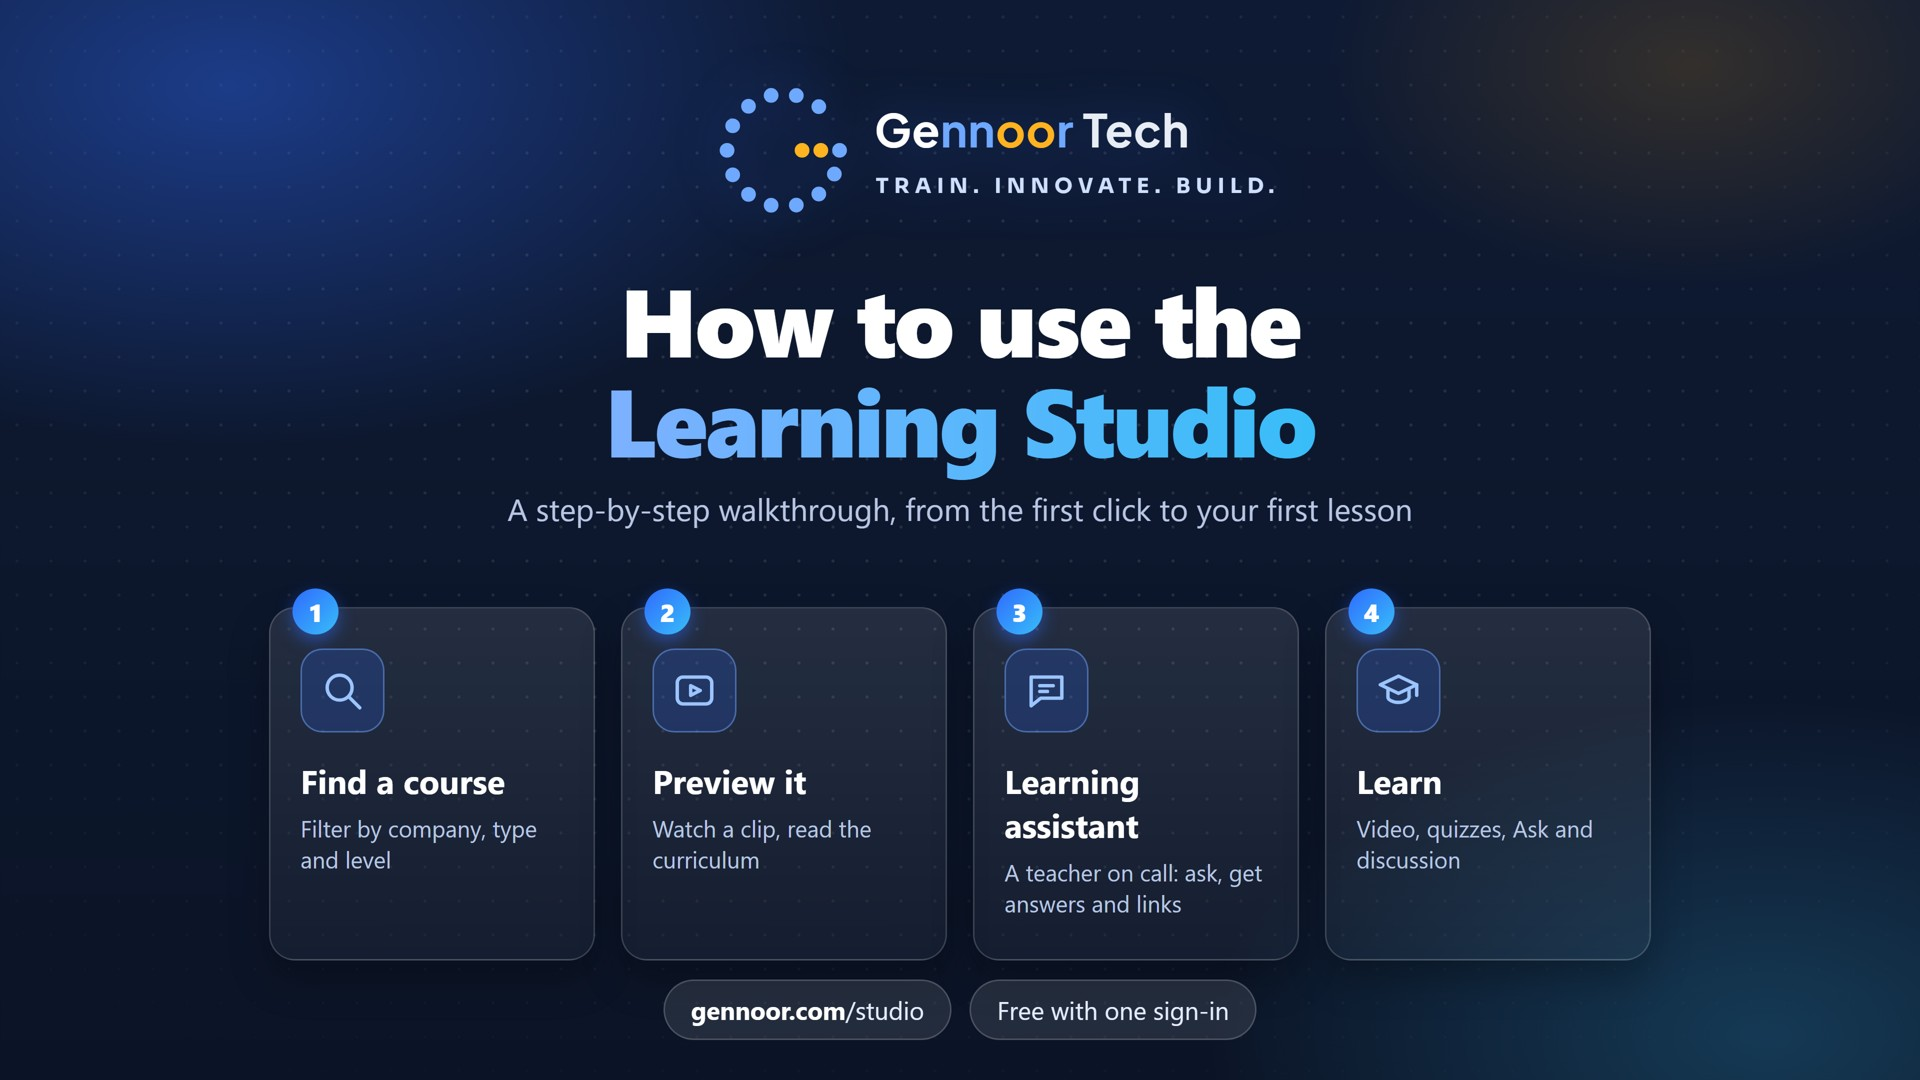
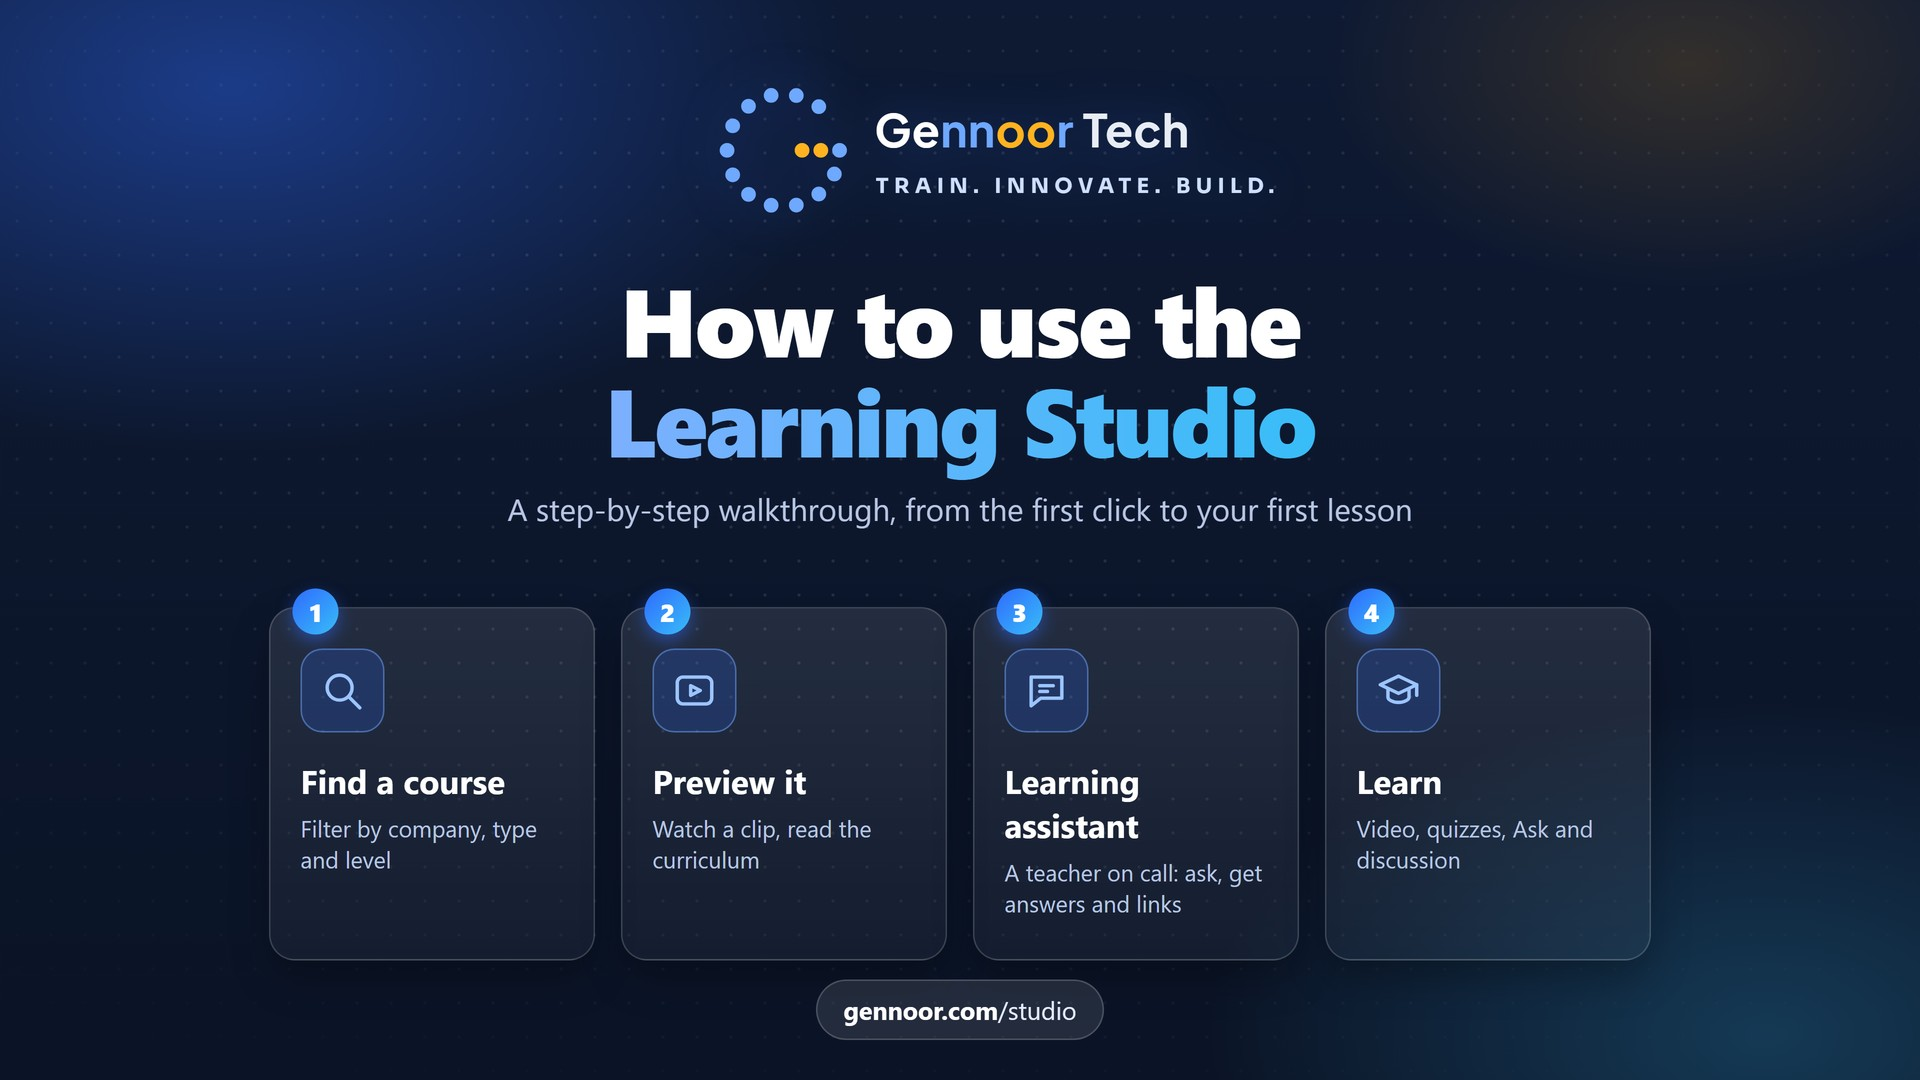
Lead with the vision: certification, projects and interactive learning
Home hero, About page, site title and the assistant's description now start from the
vision. Live training sits apart, the client side is left out for now, and the
walkthrough poster no longer carries the sign-in chip.

Claude-Session: https://claude.ai/code/session_01VrsNDqHTqvgWQAVvNsoGGp

Changed region(s): [[0.3438, 0.8861, 0.6562, 0.9778]]

diff --git a/src/app/page.tsx b/src/app/page.tsx
@@ -5,40 +5,27 @@ import HomeCourses from '@/components/home/HomeCourses'
 import WalkthroughVideo from '@/components/WalkthroughVideo'
 import HeroCarousel, { type HeroSlide } from '@/components/home/HeroCarousel'
 import { listLmsCourses, toCard } from '@/lib/lms'
-import { AutomationIllustration, DeliverIllustration, HandoverIllustration, PlatformIllustration, ScopeIllustration, TalkIllustration, TrainingIllustration } from '@/components/illustrations/Illustrations'
+import { CloudAiIllustration, ExamplesIllustration, PlatformIllustration, TrainingIllustration } from '@/components/illustrations/Illustrations'
 
 // Preview links are signed for 2 hours; rebuild the page well inside that.
 export const revalidate = 1800
 
-const WHAT_WE_DO = [
-  {
-    art: TrainingIllustration,
-    title: 'Training for organizations',
-    body: 'Custom courses built around the work your people do. Claude, Microsoft AI and other tools, taught live.',
-    href: '/training',
-    cta: 'About training',
-  },
-  {
-    art: AutomationIllustration,
-    title: 'Automation we build',
-    body: 'One process at a time, scoped in writing first, built with the people who will use it.',
-    href: '/automation',
-    cta: 'About automation',
-  },
+const PILLARS = [
   {
     art: PlatformIllustration,
-    title: 'Learning platforms',
-    body: 'The Learning Studio is one: video courses, quizzes and certificates.',
-    href: '/studio',
-    cta: 'Open the Learning Studio',
+    title: 'Certification',
+    body: 'Courses that prepare you for recognised exams in cloud and AI, with labs and quizzes along the way.',
   },
-]
-
-const STEPS = [
-  { art: TalkIllustration, title: 'We talk', body: 'You tell us what you want your team to be able to do, or which process costs you time.' },
-  { art: ScopeIllustration, title: 'We write it down', body: 'A short scope: what we will do, what we will not, and what we need from you.' },
-  { art: DeliverIllustration, title: 'We deliver', body: 'Training sessions or a working automation, built with your people.' },
-  { art: HandoverIllustration, title: 'We hand over', body: 'Your team can run it without us. We stay reachable if something needs a second look.' },
+  {
+    art: CloudAiIllustration,
+    title: 'Projects',
+    body: 'Project-based courses built on the problems teams face in production, solved step by step.',
+  },
+  {
+    art: ExamplesIllustration,
+    title: 'Interactive learning',
+    body: 'Self-paced interactive courses for every role and domain, with a short quiz at the end of each chapter.',
+  },
 ]
 
 export default async function HomePage() {
@@ -65,10 +52,10 @@ export default async function HomePage() {
           <div className="text-center lg:text-left">
             <div className="lg:[&>div]:items-start"><ClaudePartnerHero /></div>
             <h1 className="display-hero mt-10 lg:!text-left">
-              Train your team on AI. Automate the rest.
+              Learn what the job actually asks for.
             </h1>
             <p className="text-[clamp(18px,1.8vw,22px)] leading-[1.5] text-[#6e6e73] max-w-[620px] mx-auto lg:mx-0 mt-6">
-              Custom training on Claude and other AI tools, automations built one process at a time, and courses you can take yourself in the Learning Studio.
+              Certification courses, project-based courses and interactive courses, all in the Learning Studio.
             </p>
             <div className="flex flex-col sm:flex-row gap-5 sm:gap-[22px] justify-center lg:justify-start items-center mt-10">
               <Link href="/studio" className="pill-primary">Explore the Learning Studio</Link>
@@ -107,52 +94,49 @@ export default async function HomePage() {
         </section>
       )}
 
-      {/* ===== What we do ===== */}
+      {/* ===== Vision ===== */}
       <section className="bg-white px-6 py-16 lg:py-[90px]">
         <div className="max-w-[1080px] mx-auto">
-          <h2 className="display-section text-center mb-12">What we do.</h2>
-          <div className="grid md:grid-cols-3 gap-6">
-            {WHAT_WE_DO.map(w => (
-              <div key={w.title} className="rounded-[18px] border border-[#e8e8ed] p-7 flex flex-col">
-                <w.art className="w-[84px] h-[84px] mb-5" />
-                <h3 className="font-heading text-[19px] font-bold tracking-[-0.01em] text-gray-900">{w.title}</h3>
-                <p className="text-[15px] leading-[1.55] text-[#6e6e73] mt-3 flex-1">{w.body}</p>
-                <Link href={w.href} className="link-arrow !text-[15px] mt-6">{w.cta} ›</Link>
+          <div className="max-w-[820px] mx-auto text-center">
+            <p className="text-[12px] font-semibold uppercase tracking-[0.14em] text-primary-600">Our vision</p>
+            <h2 className="display-section mt-4">A world where anyone can learn the skills that work asks for, and prove them.</h2>
+          </div>
+          <div className="grid md:grid-cols-3 gap-6 mt-12">
+            {PILLARS.map(p => (
+              <div key={p.title} className="rounded-[18px] border border-[#e8e8ed] p-7">
+                <p.art className="w-[84px] h-[84px] mb-5" />
+                <h3 className="font-heading text-[19px] font-bold tracking-[-0.01em] text-gray-900">{p.title}</h3>
+                <p className="text-[15px] leading-[1.55] text-[#6e6e73] mt-3">{p.body}</p>
               </div>
             ))}
+          </div>
+          <div className="text-center mt-10">
+            <Link href="/about" className="link-arrow">About Gennoor ›</Link>
           </div>
         </div>
       </section>
 
-      {/* ===== How we work ===== */}
+      {/* ===== Live training, separate from the Learning Studio ===== */}
       <section className="bg-[#f5f5f7] px-6 py-16 lg:py-[90px]">
-        <div className="max-w-[1080px] mx-auto">
-          <h2 className="display-section text-center mb-12">How we work.</h2>
-          <ol className="grid sm:grid-cols-2 lg:grid-cols-4 gap-6">
-            {STEPS.map(s => (
-              <li key={s.title} className="bg-white rounded-[18px] p-6">
-                <s.art className="w-[72px] h-[72px] mb-4" />
-                <h3 className="font-heading text-[17px] font-bold text-gray-900">{s.title}</h3>
-                <p className="text-[14.5px] leading-[1.55] text-[#6e6e73] mt-2">{s.body}</p>
-              </li>
-            ))}
-          </ol>
+        <div className="max-w-[1080px] mx-auto grid md:grid-cols-[auto_1fr] gap-8 items-center rounded-[22px] bg-white p-8 lg:p-10">
+          <TrainingIllustration className="w-[96px] h-[96px] mx-auto md:mx-0" />
+          <div className="text-center md:text-left">
+            <h2 className="font-heading text-[clamp(22px,2.4vw,28px)] font-bold tracking-[-0.02em] text-gray-900">We also deliver live training.</h2>
+            <p className="text-[16px] leading-[1.55] text-[#6e6e73] mt-2">Instructor-led sessions and workshops on Claude, Microsoft AI and cloud, taught live from Mumbai.</p>
+            <div className="flex flex-col sm:flex-row gap-4 sm:gap-6 items-center md:items-start sm:justify-center md:justify-start mt-5">
+              <Link href="/training" className="link-arrow">About training ›</Link>
+              <Link href="/webinars" className="link-arrow">Expert sessions ›</Link>
+            </div>
+          </div>
         </div>
       </section>
 
-      {/* ===== Mission ===== */}
-      <section className="bg-white px-6 py-16 lg:py-[90px] text-center">
-        <p className="font-heading text-[clamp(24px,3vw,36px)] leading-[1.25] tracking-[-0.02em] text-gray-900 max-w-[780px] mx-auto">
-          To help every organization use AI with confidence, by training its people and automating the work that slows them down.
-        </p>
-      </section>
-
       {/* ===== Contact ===== */}
-      <section className="bg-[#f5f5f7] px-6 py-16 lg:py-[100px] text-center">
-        <h2 className="display-section max-w-[720px] mx-auto">Tell us what you want your team to be able to do.</h2>
+      <section className="bg-white px-6 py-16 lg:py-[100px] text-center">
+        <h2 className="display-section max-w-[720px] mx-auto">Questions? Talk to us.</h2>
         <div className="flex flex-col sm:flex-row gap-5 sm:gap-[22px] justify-center items-center mt-8">
           <Link href="/contact" className="pill-primary">Contact us</Link>
-          <Link href="/about" className="link-arrow">About Gennoor ›</Link>
+          <Link href="/studio" className="link-arrow">Explore the Learning Studio ›</Link>
         </div>
       </section>
     </>

diff --git a/src/app/about/page.tsx b/src/app/about/page.tsx
@@ -1,12 +1,37 @@
 import type { Metadata } from 'next'
 import Link from 'next/link'
 import { ClaudePartnerSection } from '@/components/ClaudePartner'
+import { CloudAiIllustration, ExamplesIllustration, PlatformIllustration } from '@/components/illustrations/Illustrations'
 
 export const metadata: Metadata = {
   title: 'About — Gennoor Tech',
-  description: 'Gennoor Tech trains organizations to work with AI and Claude, and builds the automations they use. Run by Jalal Ahmed Khan from Mumbai, India.',
+  description: 'Gennoor Tech gives people practical AI and cloud knowledge through certification courses, real projects and interactive learning. Mumbai, India.',
   alternates: { canonical: 'https://gennoor.com/about' },
 }
+
+const PILLARS = [
+  {
+    art: PlatformIllustration,
+    title: 'Certification',
+    body: 'Courses that prepare you for recognised exams in cloud and AI, with labs and quizzes along the way.',
+  },
+  {
+    art: CloudAiIllustration,
+    title: 'Projects',
+    body: 'Project-based courses built on the problems teams face in production, solved step by step.',
+  },
+  {
+    art: ExamplesIllustration,
+    title: 'Interactive learning',
+    body: 'Self-paced interactive courses for every role and domain, with a short quiz at the end of each chapter.',
+  },
+]
+
+const STAND_FOR = [
+  { title: 'Practical first', body: 'Every course ends with something you can do.' },
+  { title: 'Real problems', body: 'We teach what the work asks for, not only what the syllabus lists.' },
+  { title: 'Honest', body: 'We say what a course can and cannot do for you.' },
+]
 
 export default function AboutPage() {
   return (
@@ -14,36 +39,73 @@ export default function AboutPage() {
       <section className="hero-backdrop px-6 pt-16 lg:pt-[100px] pb-12 text-center">
         <h1 className="display-hero max-w-[820px] mx-auto">Gennoor Tech.</h1>
         <p className="text-[clamp(18px,1.8vw,22px)] leading-[1.5] text-[#6e6e73] max-w-[640px] mx-auto mt-6">
-          A training and automation company in Mumbai, India. We teach teams to work with AI and Claude, and we build the automations they use.
+          Practical AI and cloud knowledge, for everyone who wants to build with it.
         </p>
       </section>
 
-      <section className="px-6 pb-16">
-        <div className="max-w-[720px] mx-auto space-y-5 text-[17px] leading-[1.7] text-[#3a3a3f]">
-          <p>
-            Gennoor Tech is run by <strong>Jalal Ahmed Khan</strong>, a Microsoft Certified Trainer. He started as an engineering teacher and has spent the years since teaching teams to work with Microsoft&rsquo;s AI and cloud tools.
-          </p>
-          <p>
-            Today the work is training organizations to use Claude and other AI tools, building automations with them, and building learning platforms. The Learning Studio on this site is one of those platforms.
-          </p>
-          <p>
-            We are based in Mumbai, India. You can reach us on the <Link href="/contact" className="text-primary-600 hover:underline">contact page</Link>.
-          </p>
+      {/* ===== Vision ===== */}
+      <section className="px-6 pb-16 lg:pb-[90px]">
+        <div className="max-w-[860px] mx-auto text-center">
+          <p className="text-[12px] font-semibold uppercase tracking-[0.14em] text-primary-600">Our vision</p>
+          <h2 className="display-section mt-4">A world where anyone can learn the skills that work asks for, and prove them.</h2>
+          <p className="lede mt-5 max-w-[620px] mx-auto">We build towards it with three kinds of learning, in one place: the Learning Studio.</p>
+        </div>
+        <div className="max-w-[1080px] mx-auto grid md:grid-cols-3 gap-6 mt-12">
+          {PILLARS.map(p => (
+            <div key={p.title} className="rounded-[18px] border border-[#e8e8ed] p-7">
+              <p.art className="w-[84px] h-[84px] mb-5" />
+              <h3 className="font-heading text-[19px] font-bold tracking-[-0.01em] text-gray-900">{p.title}</h3>
+              <p className="text-[15px] leading-[1.55] text-[#6e6e73] mt-3">{p.body}</p>
+            </div>
+          ))}
+        </div>
+        <div className="text-center mt-10">
+          <Link href="/studio" className="pill-primary">Open the Learning Studio</Link>
+        </div>
+      </section>
+
+      {/* ===== What we stand for ===== */}
+      <section className="bg-[#f5f5f7] px-6 py-16 lg:py-[90px]">
+        <div className="max-w-[1080px] mx-auto">
+          <h2 className="display-section text-center mb-10">What we stand for.</h2>
+          <div className="grid md:grid-cols-3 gap-5">
+            {STAND_FOR.map(s => (
+              <div key={s.title} className="bg-white rounded-[18px] p-6">
+                <h3 className="font-heading text-[17px] font-bold text-gray-900">{s.title}</h3>
+                <p className="text-[14.5px] leading-[1.55] text-[#6e6e73] mt-2">{s.body}</p>
+              </div>
+            ))}
+          </div>
         </div>
       </section>
 
       <ClaudePartnerSection />
+
+      {/* ===== Training, separate from the Learning Studio ===== */}
+      <section className="px-6 py-16 lg:py-[90px]">
+        <div className="max-w-[720px] mx-auto text-center">
+          <h2 className="display-section">We also deliver live training.</h2>
+          <p className="lede mt-4">Instructor-led sessions and workshops, taught live from Mumbai.</p>
+          <div className="flex flex-col sm:flex-row gap-5 sm:gap-[22px] justify-center items-center mt-8">
+            <Link href="/training" className="pill-primary">About training</Link>
+            <Link href="/webinars" className="link-arrow">Expert sessions ›</Link>
+          </div>
+          <p className="text-[15px] text-[#6e6e73] mt-8">
+            Based in Mumbai, India. <Link href="/contact" className="text-primary-600 hover:underline">Contact us</Link>.
+          </p>
+        </div>
+      </section>
 
       <section className="bg-[#f5f5f7] px-6 py-16 lg:py-[90px]">
         <div className="max-w-[1080px] mx-auto">
           <h2 className="display-section text-center mb-10">Find out more.</h2>
           <div className="grid sm:grid-cols-2 lg:grid-cols-3 gap-5">
             {[
-              { title: 'Training', href: '/training', body: 'Live training for teams.' },
-              { title: 'Automation', href: '/automation', body: 'What we build and how we scope it.' },
+              { title: 'Learning Studio', href: '/studio', body: 'Certification, project-based and interactive courses.' },
+              { title: 'Training', href: '/training', body: 'Live training and workshops.' },
               { title: 'Founder', href: '/about/founder', body: 'Jalal Ahmed Khan.' },
-              { title: 'Work with us', href: '/join', body: 'Trainers and engineers, freelance or full-time.' },
               { title: 'Credentials', href: '/about/certifications', body: 'Certifications held.' },
+              { title: 'Work with us', href: '/join', body: 'Trainers and engineers, freelance or full-time.' },
             ].map(c => (
               <Link key={c.title} href={c.href} className="bg-white rounded-[18px] p-6 hover:shadow-md transition-shadow">
                 <h3 className="font-heading text-[17px] font-bold text-gray-900">{c.title}</h3>

diff --git a/src/app/api/gennoorcare/route.ts b/src/app/api/gennoorcare/route.ts
@@ -29,7 +29,7 @@ const MAX_HISTORY = 6
  * never invent numbers, clients, prices or dates.
  */
 const VOICE_RULES = `WHO WE ARE:
-Gennoor Tech is a training and automation company in Mumbai, India, run by Jalal Ahmed Khan, a Microsoft Certified Trainer. We train organizations to work with AI and Claude, and we build automations one process at a time. Gennoor is Certified in the Claude Partner Network. Never describe it as anything more than that wording.
+Gennoor Tech gives people practical AI and cloud knowledge through certification courses, project-based courses and interactive courses in the Learning Studio, and also delivers live training, from Mumbai, India. Gennoor is Certified in the Claude Partner Network. Never describe it as anything more than that wording.
 
 YOUR JOB — read the intent, then move them one step:
 Every message has a person behind it with something they're trying to achieve. "What is AI" from someone on an AI training company's website is rarely idle curiosity — they're orienting themselves before deciding something. Work out what they're actually after, answer that, and put one concrete Gennoor thing in front of them that fits it. You are not an encyclopedia; a correct answer that leaves them exactly where they started has failed.
@@ -51,7 +51,7 @@ WHAT WE OFFER:
 - **Training for organizations** — live training for a team, built around the work the team does. Microsoft certification tracks are included.
 - **Automation** — scoped one process at a time, built with Claude and other tools.
 - **Learning Studio** — video courses with labs, quizzes and certificates (AI-103 and AI-500 are live), and Claude courses by domain being prepared.
-- **AI Essentials** — free self-paced courses, the on-ramp for an individual.
+- **AI Essentials** — self-paced interactive courses, the on-ramp for an individual.
 Never quote prices, durations or client names. If asked about cost, say it depends on scope and send them to [Contact](/contact).
 Match the answer to who is asking: an individual learning gets a course; someone describing an organisational problem gets the build or the programme that solves it, and the course only as the on-ramp.
 
@@ -404,7 +404,7 @@ export async function POST(req: NextRequest) {
     const vectors = meta ? await loadVectors(meta.updatedAt) : null
     if (!meta || !vectors) {
       return NextResponse.json({
-        reply: 'I’m still learning the website — give me a little while. Meanwhile:\n- Explore [our services](https://www.gennoor.com/training)\n- Browse the free [AI Essentials](https://www.gennoor.com/ai-academy)\n- Or write to [admin@gennoor.com](mailto:admin@gennoor.com)',
+        reply: 'I’m still learning the website — give me a little while. Meanwhile:\n- Explore [our services](https://www.gennoor.com/training)\n- Browse the [AI Essentials](https://www.gennoor.com/ai-academy)\n- Or write to [admin@gennoor.com](mailto:admin@gennoor.com)',
         links: [],
       })
     }

diff --git a/src/lib/site-config.ts b/src/lib/site-config.ts
@@ -4,9 +4,9 @@ export const BLOB_URL = process.env.NEXT_PUBLIC_BLOB_URL || '/media'
 
 export const siteConfig = {
   name: 'Gennoor Tech',
-  tagline: 'AI training and automation',
+  tagline: 'Practical AI and cloud knowledge',
   description:
-    'Gennoor Tech trains organizations to work with AI and Claude, and builds the automations they use. Certified in the Claude Partner Network. Based in Mumbai, India.',
+    'Gennoor Tech gives people practical AI and cloud knowledge through certification courses, real projects and interactive learning. Certified in the Claude Partner Network. Based in Mumbai, India.',
   url: 'https://gennoor.com',
   email: 'contact@gennoor.com',
   location: 'Mumbai, India',

diff --git a/src/app/claude/page.tsx b/src/app/claude/page.tsx
@@ -22,8 +22,8 @@ const WHAT = [
   },
   {
     art: AutomationIllustration,
-    title: 'Automation and learning platforms',
-    body: 'Automations scoped one process at a time, and learning platforms such as the Learning Studio on this site.',
+    title: 'Claude courses by use case',
+    body: 'Courses in the Learning Studio built around the problems people face at work, organised by domain.',
   },
 ]
 

diff --git a/src/app/layout.tsx b/src/app/layout.tsx
@@ -21,7 +21,8 @@ export const metadata: Metadata = {
     'AI automation',
     'Claude training',
     'Claude Partner Network',
-    'AI training for organizations',
+    'AI certification courses',
+    'Learning Studio',
     'Microsoft Certified Trainer',
     'Azure AI',
     'Mumbai',
